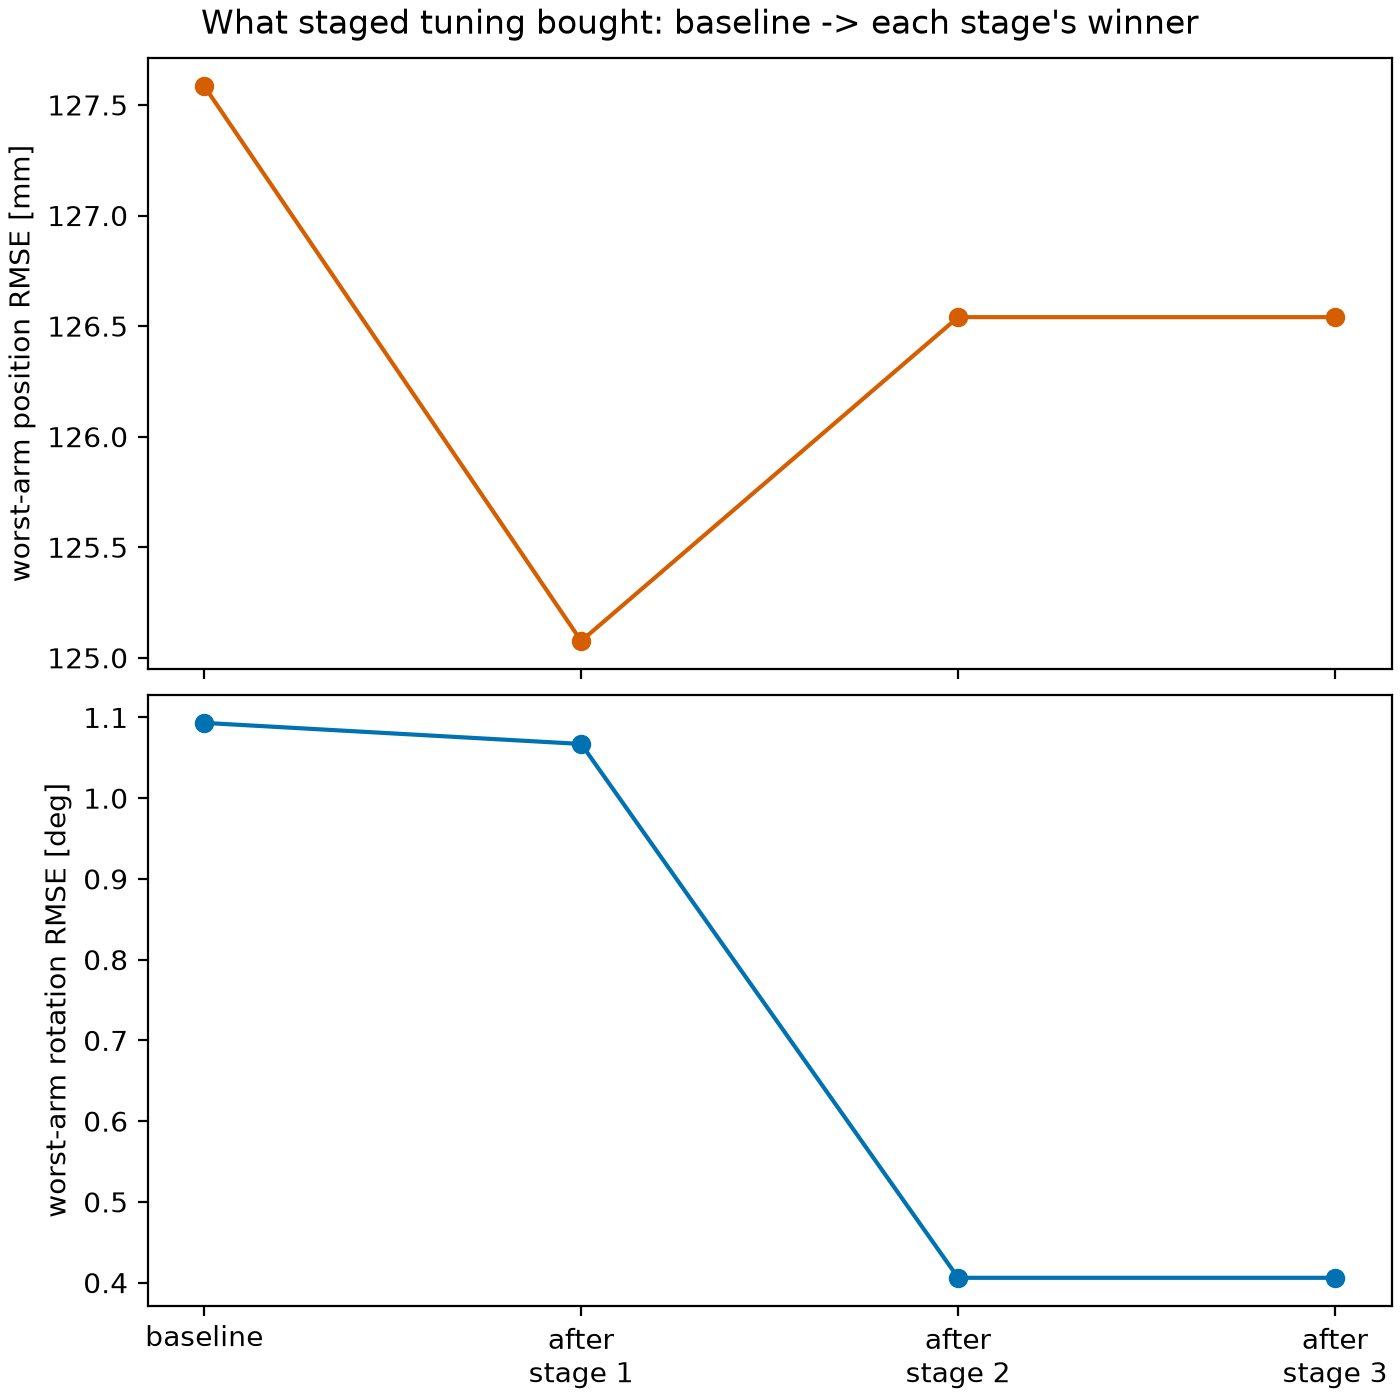
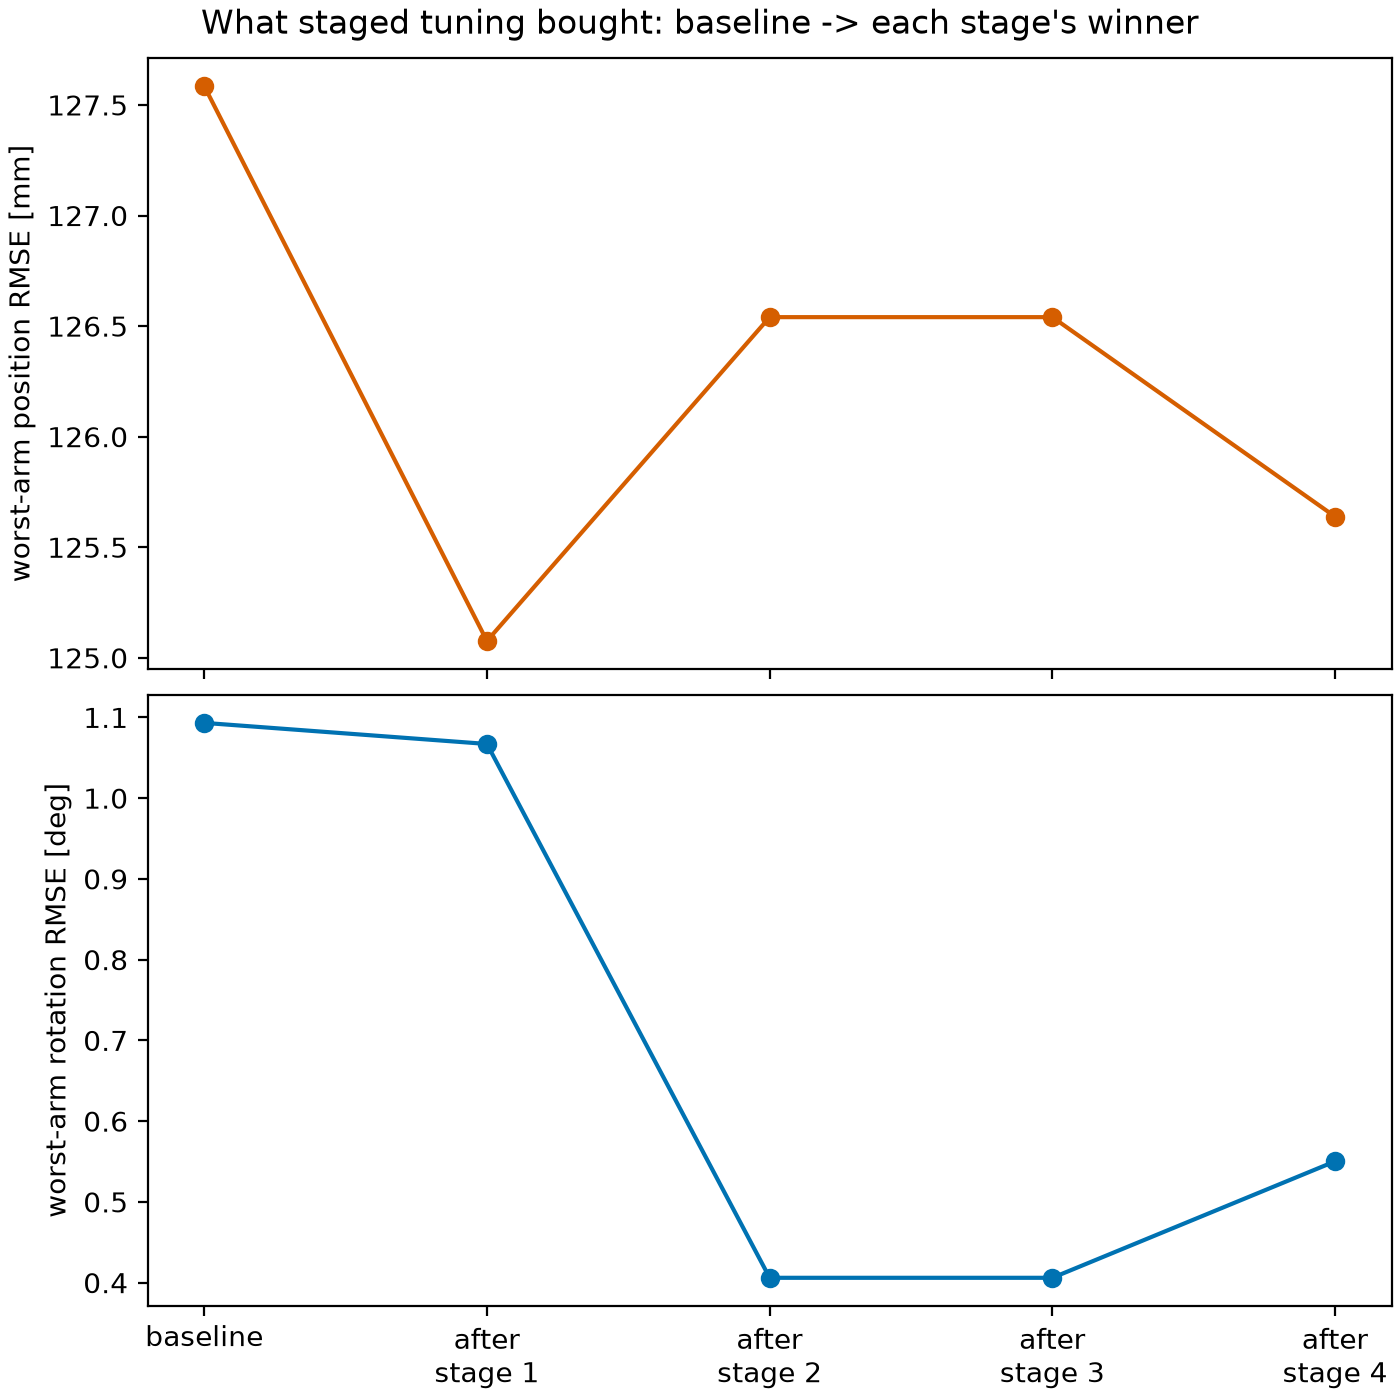
gain_sweep.py: draw progression plot after winner is stored
On a fresh full run _make_progression_plot ran before select_winner
recorded winner_config_id, so sweep_progression.png always omitted the
just-finished stage. Stage heatmaps/summary.csv stay before selection
(the all-disqualified failure path needs that evidence). Regenerated
the committed real-sweep figure, which previously ended at stage 3.

diff --git a/tests/test_gain_sweep.py b/tests/test_gain_sweep.py
@@ -2,8 +2,10 @@
 is analysis.live's job, already covered by tests/test_live.py). Covers
 grid construction, disqualification, winner selection (incl. the tie
 chain and the all-disqualified raise), headroom vs.
-analysis.dashboard.headroom_frac, non-finite headroom sanitization, and
-sweep_state.json round-trip / resume-refusal / threshold-reselection.
+analysis.dashboard.headroom_frac, non-finite headroom sanitization,
+sweep_state.json round-trip / resume-refusal / threshold-reselection,
+and run_stage's plot-vs-winner-storage ordering (with run_episode and
+live.run_experiment/save_run stubbed -- still no real sim stepping).
 """
 
 import argparse
@@ -11,6 +13,7 @@ import json
 import tempfile
 import unittest
 from pathlib import Path
+from unittest import mock
 
 import matplotlib
 
@@ -314,6 +317,59 @@ class NonFiniteHeadroomTest(unittest.TestCase):
         self.assertIsNone(row["headroom_mean_frac"])
         self.assertIsNone(row["headroom_p95_frac"])
         json.dumps(row, allow_nan=False)  # must not raise
+
+
+class RunStageProgressionOrderingTest(unittest.TestCase):
+    """run_stage must regenerate sweep_progression.png AFTER this stage's
+    winner_config_id is stored, not before. Previously it was drawn
+    between _make_stage_plots and select_winner, so "after stage N"
+    never appeared until stage N+1 ran and redrew it (a fresh full run's
+    progression plot always ended one stage short; confirmed on both a
+    smoke run and the committed real-sweep figure).
+
+    run_episode and live.run_experiment/save_run are stubbed so this
+    exercises real run_stage control flow (real stage_grid, real
+    disqualify_reasons/select_winner, real state dict, real plot calls)
+    without any actual sim stepping -- only _make_progression_plot is
+    replaced, with a spy that records whether this stage's
+    winner_config_id is already in `state` at the moment it's called."""
+
+    def setUp(self):
+        self._orig_out = gain_sweep.OUT
+
+    def tearDown(self):
+        gain_sweep.OUT = self._orig_out
+
+    def test_progression_plot_sees_this_stages_winner(self):
+        progression_calls = []
+
+        def fake_progression_plot(state):
+            stage_state = state["stages"].get("1", {})
+            progression_calls.append(stage_state.get("winner_config_id"))
+
+        def fake_run_episode(gains):
+            # Deterministic and distinguishable per grid point (by
+            # KP_POS) so select_winner's pick is unambiguous; unrelated
+            # to the real sim.
+            return _row("ignored", 1, pos_rmse=gains["KP_POS"])
+
+        with tempfile.TemporaryDirectory() as tmp:
+            gain_sweep.OUT = Path(tmp)
+            args = argparse.Namespace(fresh=False, sat_threshold=200.0)
+            state = gain_sweep.load_or_init_state(args)
+
+            with mock.patch.object(gain_sweep, "run_episode",
+                                    fake_run_episode), \
+                 mock.patch.object(gain_sweep, "_make_progression_plot",
+                                    fake_progression_plot), \
+                 mock.patch.object(gain_sweep.live, "run_experiment",
+                                    return_value=object()), \
+                 mock.patch.object(gain_sweep.live, "save_run"):
+                winner = gain_sweep.run_stage(1, state, args)
+
+        self.assertEqual(len(progression_calls), 1)
+        self.assertIsNotNone(progression_calls[0])
+        self.assertEqual(progression_calls[0], winner["config_id"])
 
 
 class StateRoundTripTest(unittest.TestCase):

diff --git a/analysis/gain_sweep.py b/analysis/gain_sweep.py
@@ -854,11 +854,19 @@ def run_stage(stage, state, args):
 
     metric_key = "worst_arm_rot_rmse_rad" if stage == 2 else "worst_arm_pos_rmse_m"
     _make_stage_plots(stage, rows, metric_key)
-    _make_progression_plot(state)
+    # summary.csv + this stage's heatmap/panel exist before select_winner
+    # can raise (all-disqualified) -- that failure path still needs
+    # evidence to inspect (see select_winner's docstring). The
+    # progression plot is different: it only ever shows *selected*
+    # winners, so it belongs after this stage's winner is actually
+    # chosen and stored, not before -- drawn here (as it previously was)
+    # it always lagged one stage behind, since "after stage N" couldn't
+    # appear until stage N's winner_config_id existed.
 
     winner = select_winner(rows, metric_key)
     stage_state["winner_config_id"] = winner["config_id"]
     write_state_atomic(state)
+    _make_progression_plot(state)
 
     winner_log = live.run_experiment(SCENARIO, gains=winner["gains"])
     live.save_run(winner_log, SCENARIO, OUT / f"stage{stage}_winner_run")
